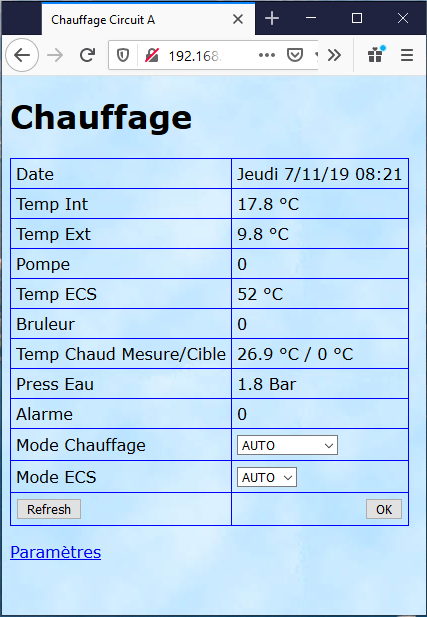
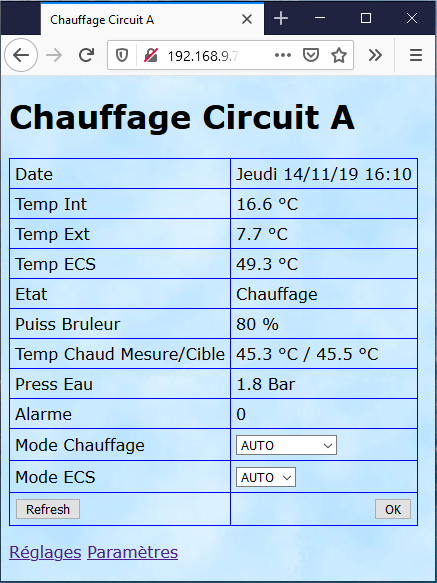
Doc update after modification since v1.3

Changed region(s): [[0.0, 0.0, 1.0, 1.0], [0.2436, 0.988, 0.274, 1.0]]

diff --git a/README.md b/README.md
@@ -77,14 +77,24 @@ This page allows you to control your boiler status and to modify it.
 
 Then if you click on "Parametres" (soory it's in french) you get:
 
-![Setting Page](ReadMeImages/Param.png)
+![Setting Page](ReadMeImages/SettingsA.png)
 
-This page allows you to control temperature settings, time and date settings (synchro on server time), and to get something which seems to be regulator software version (313 in this case).
+This page allows you to control temperature settings, time and date settings (synchro on server time).
+
+![Setting Page](ReadMeImages/Param.png)
+This page allows you to display main parameters of the Diematic 3 regulator, between them the boiler type and software release (313 in this case).
 
 <h3>Limitations</h3>
 
-With this release 313 (boiler bought end of 2006), and this version 1.2 of pages following limitation can be observed :
-- when the boiler mode is modified on the page web, it is taken into account and displayed on the boiler panel, but not on the remote control panel for mode different from antifreeze. A push on the mode button of the remote crontrol allow to refresh it.
+With this release 313 (boiler bought end of 2006), and this version 1.4 of pages, previous limitations has been solved with sometimes the help of workaround. Temporary anti freezing, is no more available as it was not correctly settable through the Diematic 3 Modbus interface, but permanent antifreezing mode has replaced it. Notice that, in this case the remote control shows below display, which is normal (you can get it with the mode button selecting antifreeze during 5s) :
+![Setting Page](ReadMeImages/AniFreeze.png)
+
+Main found limitations of the Diematic 3 interfaces are :
+- update of remote display heating mode not updatable without "heavy" workaround
+- no possibility to switch between programs (P1..P4)
+- Pump ECS (water heater) info not robust
+- no possibility to use without issue temporary freezing mode
+- pump power stays at 100% when all pumps are off
 
 <h3>Miscellaneous</h3>
 I've not been successfull to be able to modify the heating program to use ( P1..P4) or to set a temporary antifreeze mode for a given number of day.
